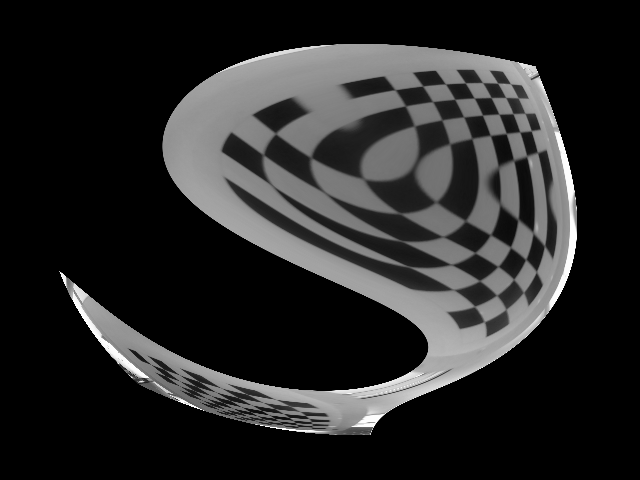
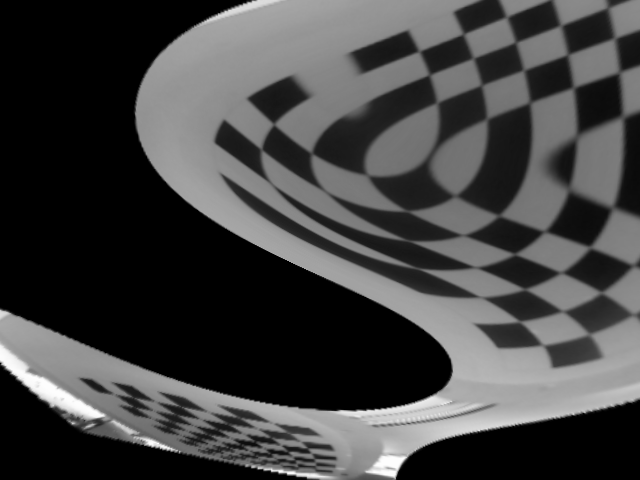
micro update

diff --git a/aruco_analysis_enac/aruco_analysis_enac/camera_calibrator.py b/aruco_analysis_enac/aruco_analysis_enac/camera_calibrator.py
@@ -149,7 +149,10 @@ class Calibrator(node.Node):
             self.width = frame_size[0]
         newcameramtx, roi = cv2.getOptimalNewCameraMatrix(matrix_camera, dist, (self.width,self.height), 1, (self.width,self.height))
         dst = cv2.undistort(img, matrix_camera, dist, None, newcameramtx)
-        cv2.imwrite('calibresult.png', dst)
+        DIM = (self.width, self.height)
+        map1, map2 = cv2.fisheye.initUndistortRectifyMap(matrix_camera, dist, np.eye(3), newcameramtx, DIM, cv2.CV_16SC2)
+        undistorted_img = cv2.remap(img, map1, map2, interpolation=cv2.INTER_LINEAR, borderMode=cv2.BORDER_CONSTANT)
+        cv2.imwrite('calibresult.png', undistorted_img)
 
         self.write_yaml(
             self.generate_dict_camera_info(distorsion_model, matrix_camera, dist, proj_matrix))

diff --git a/readme.md b/readme.md
@@ -7,7 +7,7 @@ xhost local:root
 ```
 For the rest : 
 ```
-docker run -it --net=host -e DISPLAY --name club_robot --volume /home/robot/ros_aruco/src/robot_stack_2022:/enac_ws/src --volume /home/robot/bag_files:/enac_ws/bag enacrobotique/enac-base bash
+docker run -it -d --net=host -e DISPLAY --name club_robot --volume /home/robot/ros_aruco/src/robot_stack_2022:/enac_ws/src --volume /home/robot/bag_files:/enac_ws/bag enacrobotique/enac-base bash
 ```
 PI 4 with camera :
 docker run -it --net=host --pid=host -e DISPLAY --device=/dev/video0 enacrobotique/enac-base bash:prod
@@ -93,8 +93,13 @@ sudo docker buildx build --platform linux/amd64,linux/arm64 . -f enac_base.Docke
 Pour la version **prod** 
     --build-arg DEV="False"
 
-Pour la version **dev**
+docker buildx build --build-arg DEV="False" --platform linux/amd64,linux/arm64 . -f enac_base.Dockerfile -t enacrobotique/enac-base:prod --push
+
+Pour la version **dev** (avec le volume)
     --build-arg DEV="True"
+
+docker buildx build --build-arg DEV="True" --platform linux/amd64,linux/arm64 . -f enac_base.Dockerfile -t enacrobotique/enac-base:dev --push
+
 ```
 ### AMD64 only:
 ```
